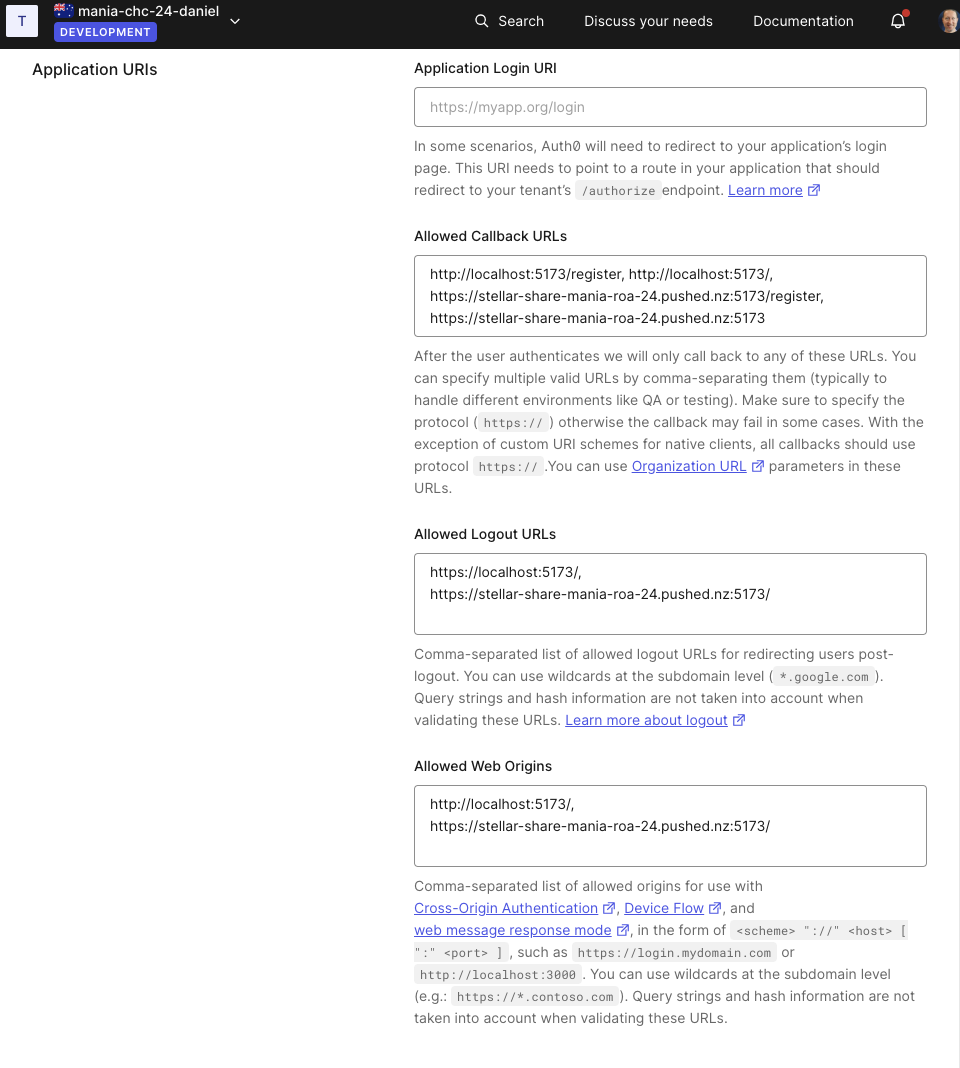
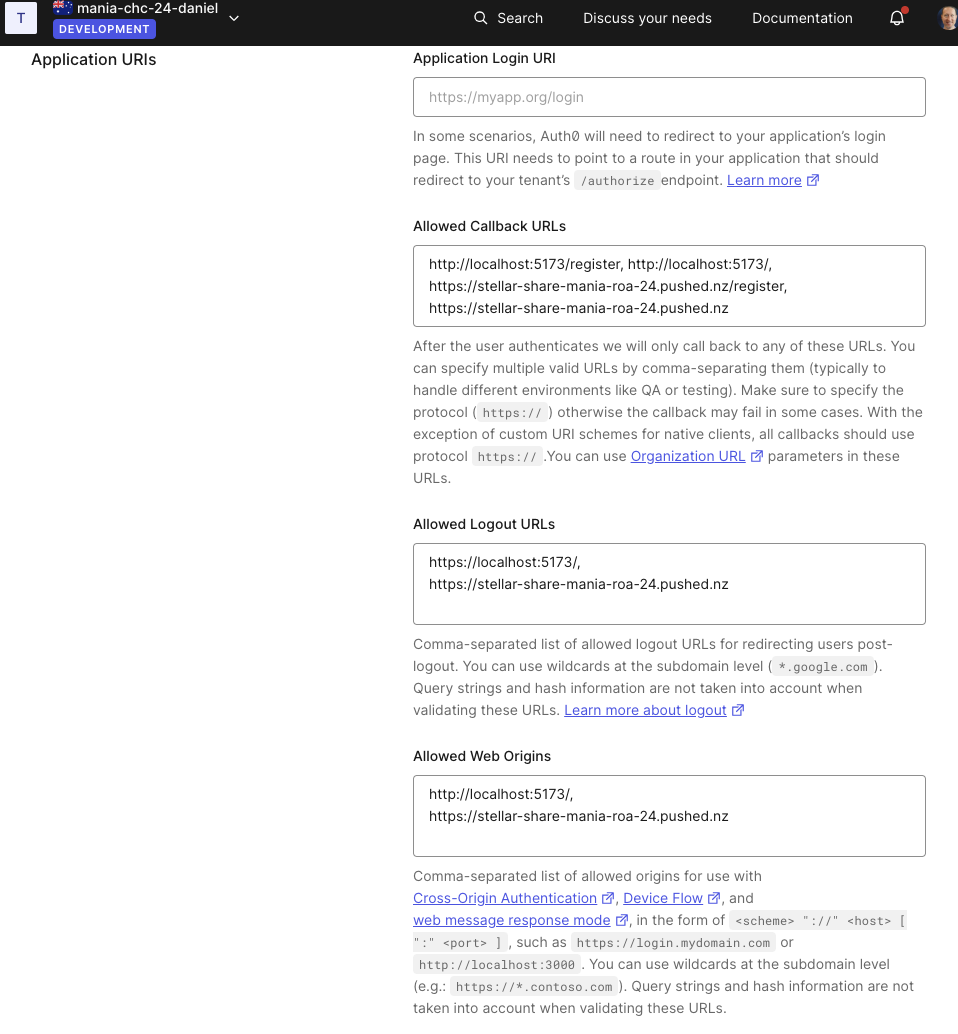
Updated README deployment instructions

diff --git a/README.md b/README.md
@@ -46,23 +46,23 @@ and then make sure the config is reloaded, either by opening a new terminal or b
 
 Now you can follow the [Deploying a full-stack web app with a database](https://student-handbook.devacademy.life/guides/deploying/4-deploying-a-fullstack-web-app-with-a-database) guide to deploy!
 
-As we are using **Auth0** for authenticating users, we need to update also our [Application URIs](https://manage.auth0.com/dashboard/au/mania-chc-24-daniel/applications/jF4daF0zuwiJKvVe07bZmGdUkZrntP0X/settings)
+As we are using **Auth0** for authenticating users, we need to update also our [Application URIs](https://manage.auth0.com/dashboard/au/mania-chc-24-daniel/applications/jF4daF0zuwiJKvVe07bZmGdUkZrntP0X/settings), to include publicly accessible host via http**s** protocol and by removing the port numbers from the URLs.
 * Update **Allowed Callback URLs** on the Auth0 App like this:
   ```
   http://localhost:5173/register,
   http://localhost:5173/,
-  https://stellar-share-mania-roa-24.pushed.nz:5173/register,
-  https://stellar-share-mania-roa-24.pushed.nz:5173/
+  https://stellar-share-mania-roa-24.pushed.nz/register,
+  https://stellar-share-mania-roa-24.pushed.nz
   ```
 * Same for **Allowed Logout URLs**:
   ```
   http://localhost:5173/,
-  https://stellar-share-mania-roa-24.pushed.nz:5173/
+  https://stellar-share-mania-roa-24.pushed.nz
   ```
 * and same for **Allowed Web Origins**
   ```
   http://localhost:5173/,
-  https://stellar-share-mania-roa-24.pushed.nz:5173/
+  https://stellar-share-mania-roa-24.pushed.nz
   ```
 
 <figure>
